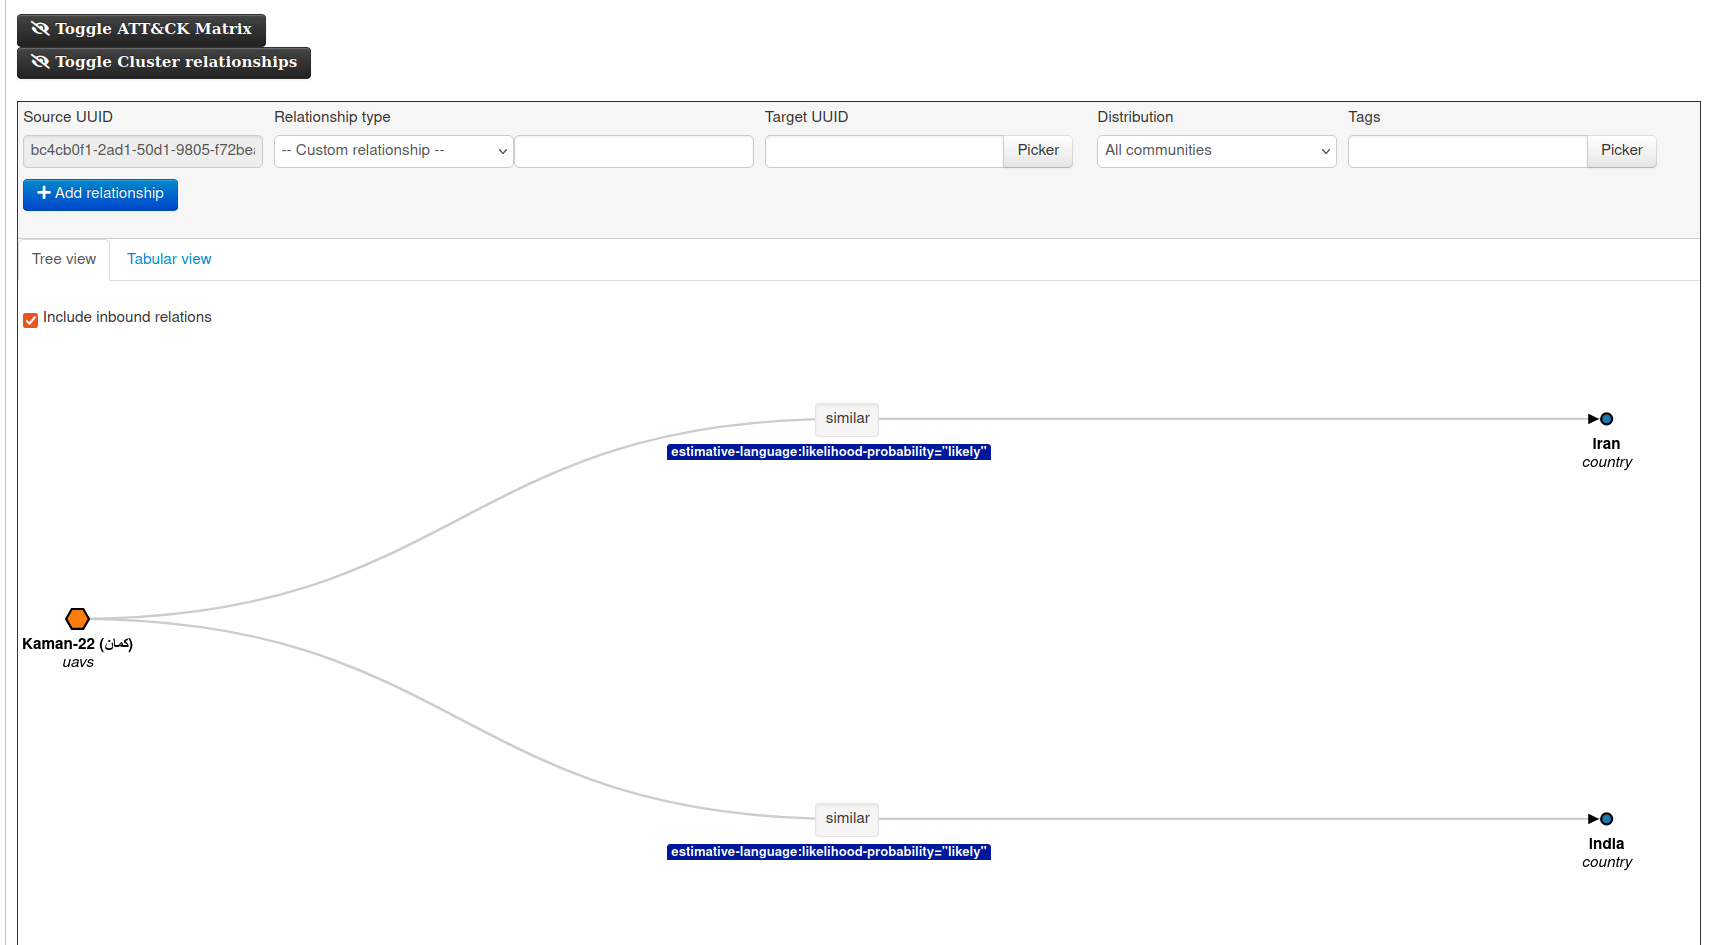
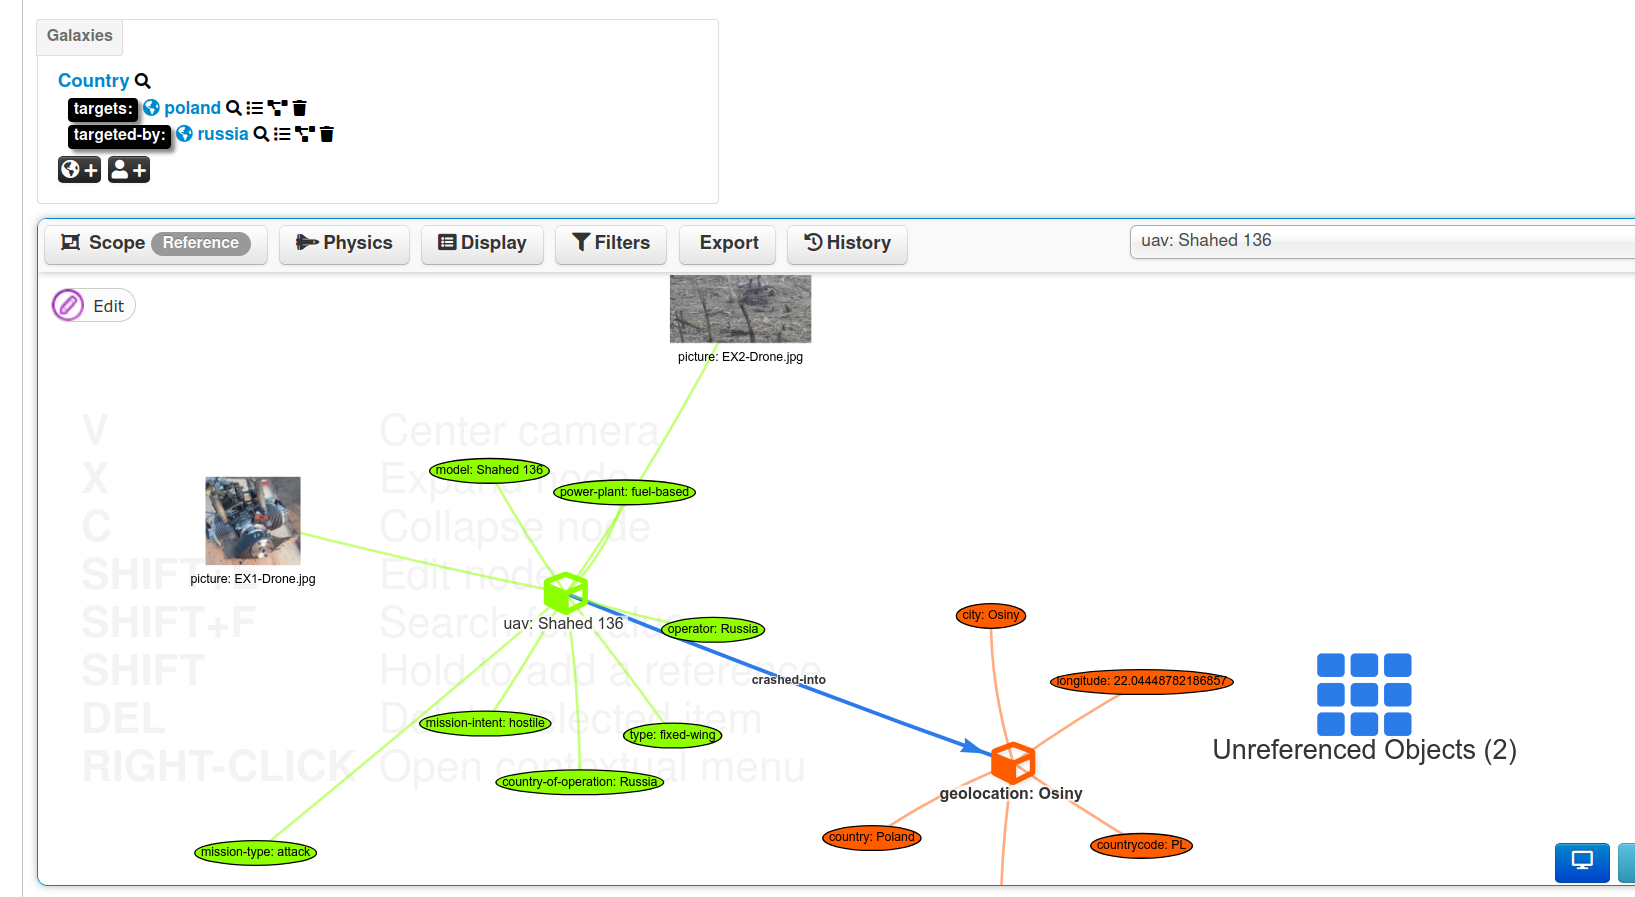
new: [blog] v2.5.33 released

diff --git a/content/blog/MISP.2.5.33.released.md b/content/blog/MISP.2.5.33.released.md
@@ -1,0 +1,69 @@
+---
+title: "MISP v2.5.33: Performance, Security, and the New Overmind Theme"
+author:
+ - MISP Project team
+date: 2026-03-03
+tags: ["MISP", "Threat Intelligence", "release" ]
+layout: post
+banner: /img/blog/uav.png
+---
+
+# MISP v2.5.33 Release Notes (2026-02-27)
+
+## 🎨 A Fresh Look: The "Overmind" Evolution
+The UI is undergoing its most significant transformation in years. With the introduction of the **Overmind** theme, MISP is transitioning to a modern stack.
+* **Bootstrap 5 & Font Awesome 7:** The core views are being migrated to modern CSS frameworks.
+* **New Theme System:** Users can now select between different themes (like the new `Overmind` or Chris Horsley's `BetaUI`) if enabled by the site admin.
+* **Visual Refinements:** Updates to the login page, navbar, flash alerts, and the footer.
+* **Brand Update:** Say hello to the new MISP logo integrated into the Overmind theme.
+
+
+In order to support the development of multiple future UI concepts, we have added support for themes in MISP. This support currently is limited to beta and in development UIs, allowing users to opt into beta UIs and developers to more smoothly collaborate on the development codebases. To understand the distinction of the UIs and their implementation differences.
+* **BetaUI:** Drop in replacement with new concepts brought to the current software stack. Pages are reworked gradually without disrupting the current usage and we encourage users to switch to these and let us know what they think about the changes. 
+* **Overmind: Development UI:** Since this includes a full stack change for the front-end, it isn't meant to be a gradual but rather aims to be a one-shot replacement, upon the next major MISP release. Generally we do not encourage day to day users to switch to this UI until it is more established, but for those that want to have their voices heard in regards the future of MISP, we highly encourage you to experiment with it and let us know what you think.
+
+**Important**: In order to enable themes in MISP, administrators will now have to allow MISP to use these functionalities, so make sure that you enable the support for themes if you would like your users to be able to experiment with the new functionalities. To enable themes follow the steps described below
+
+For regular MISP installations:
+
+- `/var/www/MISP/app/Console/cake Admin setSetting "MISP.enable_themes" 1`
+
+For Docker installations:
+
+- `docker exec -it misp-docker-misp-core-1 /var/www/MISP/app/Console/cake Admin setSetting "MISP.enable_themes" 1`
+
+
+## ⚡ Sync & Performance: Built for Speed
+Synchronizing large instances just got a lot lighter.
+* **Fast Caching:** A new client-side caching implementation and endpoint have been added for synchronization. This bypasses the heavy `restSearch` logic, resulting in a smaller memory footprint and faster execution by handling hashing on the database side.
+* **Memory Optimizations:** Under-the-hood improvements to base64 encoding (using `simdjson`) and BinaryFileEngine caching significantly reduce memory usage during event processing.
+* **Sightings-free Sync:** Events can now be served without sightings during pull requests, preventing "explosive" event sizes that previously caused sync failures.
+
+## 🤖 The "Claude" Refactor
+In a bit of technical meta-history, this release features a massive refactoring of core controllers (Warninglists, Galaxies, Taxonomies, etc.) to a standardized **CRUD component**.
+* This refactor was heavily assisted by **Claude 4.5**, ensuring consistency across the platform's internal logic while significantly reducing technical debt.
+* A `Claude.md` file has been added to the repository to document this collaboration (and save your tokens!).
+
+## 🛡 Security & Hardening
+Several security improvements were implemented, many thanks to reports from the community (notably Maxime ESCOURBIAC):
+* **Redirection Protection:** Prevented unauthorized redirects to external websites from dashboard widgets.
+* **File Upload Validation:** Fixed inconsistencies in SVG logo uploads for organizations.
+* **Authkey Fixes:** Improved the generation and storage of initial user enrollment keys to ensure "new" authkey hashes provide the intended protection.
+* **URL Gating:** New settings to enable/disable arbitrary URLs in event reports and workflows.
+
+### Security advisories
+
+- [GCVE-1-2026-0016](https://vulnerability.circl.lu/vuln/gcve-1-2026-0016) < MISP 2.5.33 - Server-Side Request Forgery via Event Report Import From URL in MISP.
+- [GCVE-1-2026-0017](https://vulnerability.circl.lu/vuln/gcve-1-2026-0017) < MISP modules 3.0.5 - Improper Neutralization of Raw HTML in MISP modules Markdown-to-PDF Module Leads to HTML Injection.
+- [GCVE-1-2026-0018](https://vulnerability.circl.lu/vuln/gcve-1-2026-0018) < MISP 2.5.33 - Improper access control in MISP user contact form allows cross-organisation email targeting.
+- [GCVE-1-2026-0019](https://vulnerability.circl.lu/vuln/gcve-1-2026-0019) < MISP 2.5.33 - Improper URL validation in MISP dashboard button widget allows external redirection.
+
+## 🛠 API & Internal Changes
+* **New Endpoint:** Added `/attributes/getAttributeByB64Value` for more efficient attribute lookups.
+* **Freetext Improvements:** Added extraction support for Chrome and Edge browser extension IDs.
+* **Library Updates:** PyMISP, misp-galaxy, taxonomies, and misp-objects have all been bumped to their latest versions.
+* **Workflow Modules:** Enhancements to `threat-level-if` and `aggregate-if`.
+
+**Full Changelog:** For a detailed list of every commit, please see the [official MISP repository](https://www.misp-project.org/Changelog.txt).
+
+
